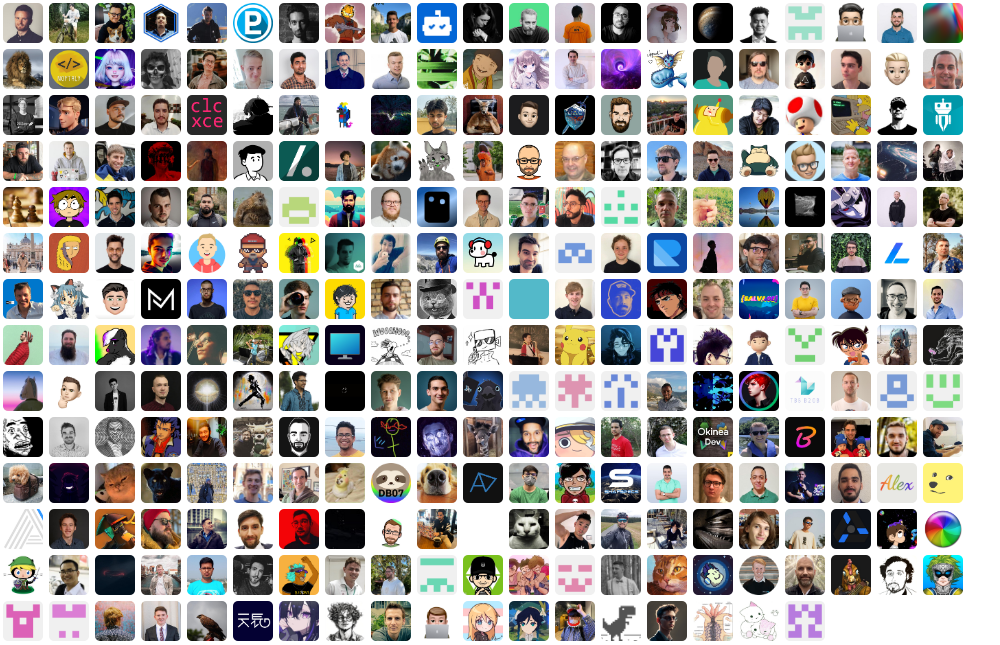
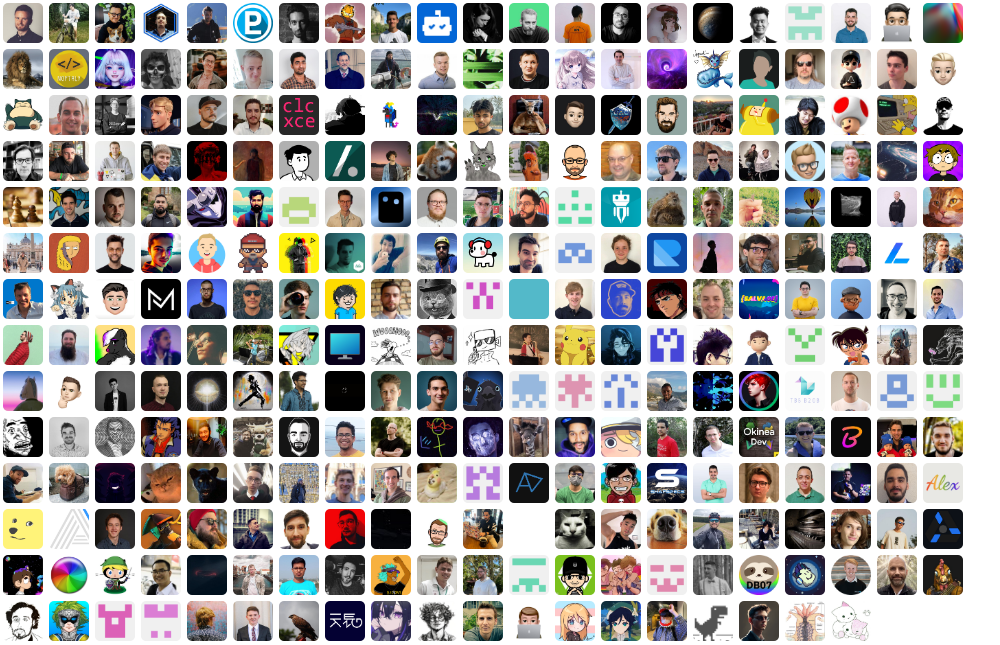
release: 🔖 v0.9.0

diff --git a/CHANGELOG.md b/CHANGELOG.md
@@ -3,10 +3,34 @@
  All notable changes to this project will be documented in this file. Dates are displayed in UTC.
 
  
+#### [v0.9.0](https://github.com/PKief/vscode-material-icon-theme/compare/v0.8.0...v0.9.0) 
+
+> February 17, 2024 
+
+- feat: ✨ pp pkief: files 6th batch [`aee58b7f`](https://github.com/PKief/vscode-material-icon-theme/commit/aee58b7f)
+- feat: ✨ pp pkief: files 5th batch [`7012cecc`](https://github.com/PKief/vscode-material-icon-theme/commit/7012cecc)
+- feat: ✨ pp pkief: files 4th batch [`d8804a40`](https://github.com/PKief/vscode-material-icon-theme/commit/d8804a40)
+- feat: ✨ pp pkief: files 2nd batch [`c74ff693`](https://github.com/PKief/vscode-material-icon-theme/commit/c74ff693)
+- feat: add syncpack icon [`#1968`](https://github.com/PKief/vscode-material-icon-theme/pull/1968)
+- feat: ✨ converted icons to 32px grid [`d5ef5b64`](https://github.com/PKief/vscode-material-icon-theme/commit/d5ef5b64)
+- feat: payload cms [`#2222`](https://github.com/PKief/vscode-material-icon-theme/pull/2222)
+- fix: 🚑 fix webpack folder colors [`589c3a39`](https://github.com/PKief/vscode-material-icon-theme/commit/589c3a39)
+- fix: 🚑 fix some of the failing colors [`3037e3a3`](https://github.com/PKief/vscode-material-icon-theme/commit/3037e3a3)
+- feat: ✨ pp pkief: angular, ansible, apollo, archive... [`121dc063`](https://github.com/PKief/vscode-material-icon-theme/commit/121dc063)
+- feat: add `tsconfig.server.json` to file names [`#2223`](https://github.com/PKief/vscode-material-icon-theme/pull/2223)
+- feat: ✨ pp pkief: aws, azure-pipelines, base, batch, ... [`72cfea75`](https://github.com/PKief/vscode-material-icon-theme/commit/72cfea75)
+- feat: ✨ illustrator script to import and resize icons [`6a4ba27b`](https://github.com/PKief/vscode-material-icon-theme/commit/6a4ba27b)
+- feat: ✨ pp pkief: mail, mappings, docker, client, ... [`a6e43dc0`](https://github.com/PKief/vscode-material-icon-theme/commit/a6e43dc0)
+- feat: ✨ pp pkief: font, views, meta, resource, docs... [`e44fe20a`](https://github.com/PKief/vscode-material-icon-theme/commit/e44fe20a)
+- feat: ✨ pp pkief: js, layout, lib, mock, next, node, ... [`fada414d`](https://github.com/PKief/vscode-material-icon-theme/commit/fada414d)
+- Added swagger icon [`#1718`](https://github.com/PKief/vscode-material-icon-theme/pull/1718)
+- feat: ✨ 2nd iteration pkief 32px icon replacement [`6c66bbfe`](https://github.com/PKief/vscode-material-icon-theme/commit/6c66bbfe)
+ 
 #### [v0.8.0](https://github.com/PKief/vscode-material-icon-theme/compare/v0.7.0...v0.8.0) 
 
 > February 13, 2024 
 
+- release: 🔖 v0.8.0 [`3ceafeed`](https://github.com/PKief/vscode-material-icon-theme/commit/3ceafeed)
 - fix: 🚑 downgrade @types/vscode to match configured engine [`586aa860`](https://github.com/PKief/vscode-material-icon-theme/commit/586aa860)
 - feat: ✨ pp pkief: helper, i18n, images, scripts, utils [`8958de00`](https://github.com/PKief/vscode-material-icon-theme/commit/8958de00)
 - feat: ✨ pp pkief: log, shared, src, taskfile, task folders [`ddc5f6fd`](https://github.com/PKief/vscode-material-icon-theme/commit/ddc5f6fd)
